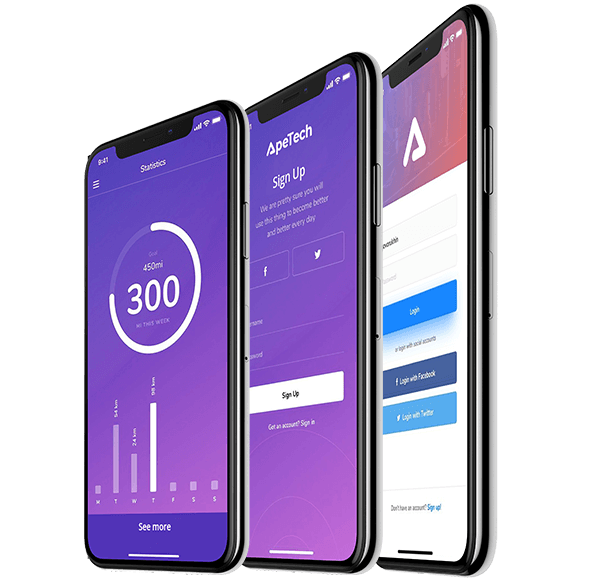
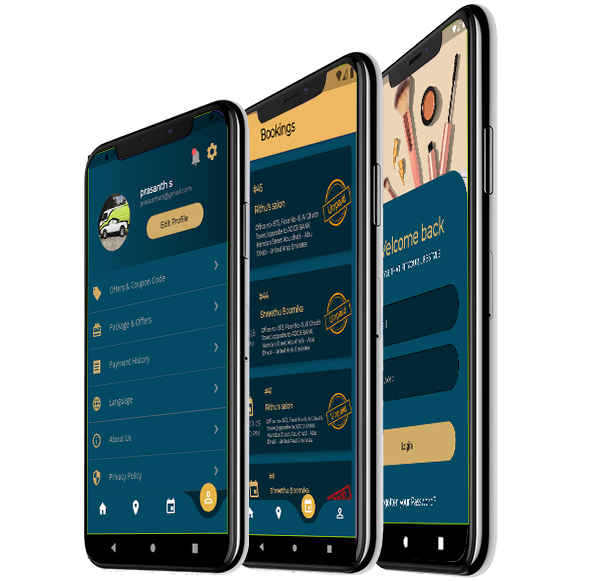
17-05-2022 v1

diff --git a/resources/views/pages/home.blade.php b/resources/views/pages/home.blade.php
@@ -126,7 +126,7 @@
                                 </span>
                             </h1>
 
-            <strong class="text-slider"></strong>
+                            <strong class="text-slider"></strong>
                                 <p>We offer a full range of services from our team of professional experienced Hair Stylists & Beauticians, using the highest quality products available. The team are fully brand trained, regularly attending refresher courses at L'Oréal  to ensure that we are providing you with as high quality treatment as we possibly can.</p>
                                 <div class="slider-action-btn">
                                     <a href="#" class="btn softo-solid-btn"><i class="fa fa-apple"></i> Appstore</a>
@@ -138,22 +138,69 @@
                     <div class="col-md-4">
                         <div class="mobile-slider-area">
                             <div class="phone">
+<style>
+@media only screen and (max-width: 1920px) {
+  .playstore-slider {
+    width:370px !important;
+    height:480px !important;
+  }
+}
+@media only screen and (max-width: 1440px) {
+  .playstore-slider {
+    width:370px !important;
+    height:470px !important;
+  }
+}
+@media only screen and (max-width: 1024px) {
+  .playstore-slider {
+    width:370px !important;
+    height:550px !important;
+  }
+}
+@media only screen and (max-width: 768px) {
+  .playstore-slider {
+    width:370px !important;
+    height:850px !important;
+  }
+}
+@media only screen and (max-width: 426px) {
+  .playstore-slider {
+    /* width:370px !important; */
+    height:520px !important;
+  }
+}
+@media only screen and (max-width: 376px) {
+  .playstore-slider {
+    /* width:370px !important; */
+    height:480px !important;
+  }
+}
+@media only screen and (max-width: 321px) {
+  .playstore-slider {
+    /* width:370px !important; */
+    height:390px !important;
+  }
+}
+</style>
                                 <img src="/website/img/iphone-x-frame.png" alt="Phone" class="img-responsive">
                                 <div class="mobile-slider owl-carousel owl-theme">
-                                    <div class="item"><img src="/website/img/top-screen-1.png" alt="Screen 1"
-                                                           class="img-responsive"></div>
-                                    <!-- <div class="item"><img src="/website/img/top-screen-5.png" alt="Screen 1"
+                                    <div class="item"><img src="/images/playstore/image-1.jpg" alt="Salon Mania" class="img-responsive playstore-slider"></div>
+                                    <div class="item"><img src="/images/playstore/image-2.jpg" alt="Salon Mania" class="img-responsive playstore-slider"></div>
+                                    <div class="item"><img src="/images/playstore/image-3.jpg" alt="Salon Mania" class="img-responsive playstore-slider"></div>
+                                    <div class="item"><img src="/images/playstore/image-4.jpg" alt="Salon Mania" class="img-responsive playstore-slider"></div>
+                                    <div class="item"><img src="/images/playstore/image-5.jpg" alt="Salon Mania" class="img-responsive playstore-slider"></div>
+                                    <!--  <div class="item"><img src="/website/img/top-screen-5.png" alt="Screen 1"
                                                            class="img-responsive"></div>
                                     <div class="item"><img src="/website/img/top-screen-2.png" alt="Screen 2"
                                                            class="img-responsive"></div>
                                     <div class="item"><img src="/website/img/top-screen-6.png" alt="Screen 2"
-                                                           class="img-responsive"></div> -->
+                                                           class="img-responsive"></div>
                                     <div class="item"><img src="/website/img/top-screen-3.png" alt="Screen 3"
                                                            class="img-responsive"></div>
                                     <div class="item"><img src="/website/img/top-screen-7.png" alt="Screen 3"
                                                            class="img-responsive"></div>
                                     <div class="item"><img src="/website/img/top-screen-8.png" alt="Screen 3"
-                                                           class="img-responsive"></div>
+                                                           class="img-responsive"></div> -->
                                 </div>
                             </div>
 
@@ -185,9 +232,7 @@
                         <div class="col-md-12">
                                 <div class="section-heading text-center">
                                 <h3>Only One App<br/>Countless Services.</h3>
-                                <p>Continually network virtual strategic theme areas vis-a-vis ubiquitous
-                                potentialities. Holisticly negotiate focused e-tailers without premium
-                                solutions. </p>
+                                <p>Salon Mania is the mobile application which is connected all the salons, spa, make artist, beauty clinic, Pets , Dermatology  in United Arab Emirates. More than 200 salons are connected in our salon mania Application. </p>
                                 </div>
                         </div>
                     </div>
@@ -197,8 +242,7 @@
                                 <div class="single-promo-content">
                                     <span class="ti-face-smile  "></span>
                                     <h6>Easy To Use</h6>
-                                    <p>Lorem ipsum dolor sit amet, eam ex probo tation tractatos. Ut vel hinc solet
-                                        tincidunt.</p>
+                                    <p>LET’S GET THINGS STARTED. TO REGISTER YOUR SALON OR BEAUTY RETAIL BUSINESS, SIMPLY SUBMIT YOUR BUSINESS AND CONTACT INFORMATION.</p>
                                 </div>
                                 <div class="line"></div>
                             </div>
@@ -208,8 +252,7 @@
                                 <div class="single-promo-content">
                                     <span class="ti-vector"></span>
                                     <h6>Awesome Design</h6>
-                                    <p>Lorem ipsum dolor sit amet, eam ex probo tation tractatos. Ut vel hinc solet
-                                        tincidunt.</p>
+                                    <p>IT’S TIME TO GROW YOUR REVENUE, CUSTOMER BASE AND EXPOSURE. YOU HAVE THE SERVICES AND PRODUCTS. WE HAVE THE TECH AND REACH</p>
                                 </div>
                                 <div class="line"></div>
                             </div>
@@ -219,8 +262,7 @@
                                 <div class="single-promo-content">
                                     <span class="ti-palette"></span>
                                     <h6>Easy To Customize</h6>
-                                    <p>Lorem ipsum dolor sit amet, eam ex probo tation tractatos. Ut vel hinc solet
-                                        tincidunt.</p>
+                                    <p>WE WORK WITH ONLY THE BEST. OUR SALON PARTNERS ARE THE TOP ECHELON IN THE WORLD’S MOST COSMOPOLITAN CITIES.YOU HAVE A WORLD-CLASS SEAL.</p>
                                 </div>
                                 <div class="line"></div>
                             </div>
@@ -230,8 +272,8 @@
                                 <div class="single-promo-content">
                                     <span class="ti-headphone-alt"></span>
                                     <h6>24/7 Support</h6>
-                                    <p>Lorem ipsum dolor sit amet, eam ex probo tation tractatos. Ut vel hinc solet
-                                        tincidunt.</p>
+                                    <p> INTEGRATED WITH MOBILE APPLICATION FOR IPHONE AND ANDROID USERS CAN BOOK THE APPOINTMENTS.
+                                        </p>
                                 </div>
                                 <div class="line"></div>
                             </div>
@@ -244,8 +286,7 @@
                                 <div class="single-promo-content">
                                     <span class="ti-face-smile  "></span>
                                     <h6>Easy To Use</h6>
-                                    <p>Lorem ipsum dolor sit amet, eam ex probo tation tractatos. Ut vel hinc solet
-                                        tincidunt.</p>
+                                    <p>Our professional will help you find the trendy look with our service in salon mania.</p>
                                 </div>
                                 <div class="line"></div>
                             </div>
@@ -255,8 +296,7 @@
                                 <div class="single-promo-content">
                                     <span class="ti-vector"></span>
                                     <h6>Awesome Design</h6>
-                                    <p>Lorem ipsum dolor sit amet, eam ex probo tation tractatos. Ut vel hinc solet
-                                        tincidunt.</p>
+                                    <p> CHOOSE ANY SERVICES AND FIX AN APPOINTMENT FROM THEIR PHONES, MAKE A PAYMENT TO YOUR SPA LOCATION.</p>
                                 </div>
                                 <div class="line"></div>
                             </div>
@@ -266,8 +306,7 @@
                                 <div class="single-promo-content">
                                     <span class="ti-palette"></span>
                                     <h6>Easy To Customize</h6>
-                                    <p>Lorem ipsum dolor sit amet, eam ex probo tation tractatos. Ut vel hinc solet
-                                        tincidunt.</p>
+                                    <p>BOOK NOW FOR THE BEST IN CLASS SERVICES! BE IT FOR A PARTY, FESTIVAL!.</p>
                                 </div>
                                 <div class="line"></div>
                             </div>
@@ -277,8 +316,7 @@
                                 <div class="single-promo-content">
                                     <span class="ti-headphone-alt"></span>
                                     <h6>24/7 Support</h6>
-                                    <p>Lorem ipsum dolor sit amet, eam ex probo tation tractatos. Ut vel hinc solet
-                                        tincidunt.</p>
+                                    <p>We have the best support 24/7 over chat system to answer all your query to serve better.</p>
                                 </div>
                                 <div class="line"></div>
                             </div>
@@ -296,9 +334,7 @@
                     <div class="col-md-12">
                         <div class="section-heading text-center">
                             <h3>Salon Mania Features</h3>
-                            <p>Continually network virtual strategic theme areas vis-a-vis ubiquitous
-                                potentialities. Holisticly negotiate focused e-tailers without premium
-                                solutions. </p>
+                            <p>We found some best registered Barbours in United Arab Emirates. Who can provide best service in salons & Spa. </p>
                         </div>
                     </div>
                 </div>
@@ -313,7 +349,7 @@
                             </div>
                             <div class="feature-content">
                                 <h5>Responsive web design</h5>
-                                <p class="mb-0">Modular and interchangable componente between layouts and even demos.</p>
+                                <p class="mb-0">Improved web design to all the users to have right selection.</p>
                             </div>
                         </div>
                         <!--feature single end-->
@@ -326,7 +362,7 @@
                             </div>
                             <div class="feature-content">
                                 <h5>Loaded with features</h5>
-                                <p class="mb-0">Modular and interchangable componente between layouts and even demos.</p>
+                                <p class="mb-0">One Hub for all your needs buy products and services at one go.</p>
                             </div>
                         </div>
                         <!--feature single end-->
@@ -339,7 +375,7 @@
                             </div>
                             <div class="feature-content">
                                 <h5>Friendly online support</h5>
-                                <p class="mb-0">Modular and interchangable componente between layouts and even demos.</p>
+                                <p class="mb-0"> We are connected with you 24/7 to asssit you better in all needs.</p>
                             </div>
                         </div>
                         <!--feature single end-->
@@ -359,7 +395,7 @@
                             </div>
                             <div class="feature-content">
                                 <h5>Free updates forever</h5>
-                                <p class="mb-0">Modular and interchangable componente between layouts and even demos.</p>
+                                <p class="mb-0">Get updates on latestet features on the go.</p>
                             </div>
                         </div>
                         <!--feature single end-->
@@ -372,7 +408,7 @@
                             </div>
                             <div class="feature-content">
                                 <h5>Infinite colors</h5>
-                                <p class="mb-0">Modular and interchangable componente between layouts and even demos.</p>
+                                <p class="mb-0">You can find all the shops required at single hub.</p>
                             </div>
                         </div>
                         <!--feature single end-->
@@ -385,7 +421,7 @@
                             </div>
                             <div class="feature-content">
                                 <h5>Friendly online support</h5>
-                                <p class="mb-0">Modular and interchangable componente between layouts and even demos.</p>
+                                <p class="mb-0">Using the app is easy to navigate on your needs.</p>
                             </div>
                         </div>
                         <!--feature single end-->
@@ -426,8 +462,8 @@
                         <div class="col-md-12">
                             <div class="section-heading text-center">
                                 <h3>10k+ Experts Trust Us</h3>
-                                <p>Streamlining different processes and workflows by using user access control Onebook
-                                    prompts efficiency and productivity levels of an organization, and reduces operating
+                                <p>Streamlining different processes and workflows by using user access control admin
+                                    prompts efficiency and productivity levels of an each spa, salon, petcare and lot more, and reduces operating
                                     costs.</p>
                             </div>
                         </div>
@@ -475,16 +511,13 @@
                                     <div class="single-testimonial-item">
                                         <span class="blockquote-icon"><i class="fa fa-quote-left"></i></span>
                                         <div class="testimonial-content">
-                                            <p>Professionally grow backward-compatible data without tactical alignments.
-                                                Completely whiteboard cooperative schemas rather than cross-platform
-                                                intellectual capital. Quickly benchmark wireless relationships via
-                                                client-centered models.</p>
+                                            <p>Best app to use for all spa / petcare and beatuty product needs, happy to use this app.</p>
                                         </div>
                                         <div class="testimonial-author">
                                             <img src="/website/img/testimonial-4.png" alt="">
                                             <div class="testimonial-author-info">
-                                                <h6>Beatrice Evans</h6>
-                                                <span>Digital Marketer</span>
+                                                <h6>Mohamed al Khalid Shamsi</h6>
+                                                <span> App user</span>
                                             </div>
                                         </div>
                                     </div>
@@ -493,15 +526,12 @@
                                     <div class="single-testimonial-item">
                                         <span class="blockquote-icon"><i class="fa fa-quote-left"></i></span>
                                         <div class="testimonial-content">
-                                            <p>Professionally grow backward-compatible data without tactical alignments.
-                                                Completely whiteboard cooperative schemas rather than cross-platform
-                                                intellectual capital. Quickly benchmark wireless relationships via
-                                                client-centered models.</p>
+                                            <p>Clean Interface and easy access with online payment loved using this app.</p>
                                         </div>
                                         <div class="testimonial-author">
                                             <img src="/website/img/testimonial-4.png" alt="">
                                             <div class="testimonial-author-info">
-                                                <h6>Beatrice Evans</h6>
+                                                <h6>Lao min Ju shu</h6>
                                                 <span>Digital Marketer</span>
                                             </div>
                                         </div>
@@ -538,13 +568,7 @@
                                     </div>
                                     <div id="collapseOne" class="panel-collapse collapse">
                                         <div class="panel-body">
-                                            <p>Lorem ipsum dolor sit amet, consectetur adipiscing elit. Praesent nisl
-                                                lorem,
-                                                dictum id pellentesque at, vestibulum ut arcu. Curabitur erat libero,
-                                                egestas eu
-                                                tincidunt ac, rutrum ac justo. Vivamus condimentum laoreet lectus,
-                                                blandit
-                                                posuere tortor aliquam vitae. Curabitur molestie eros. </p>
+                                            <p>New Design concept for easy buyer journey. </p>
                                         </div>
                                     </div>
                                 </div>
@@ -560,13 +584,7 @@
                                     </div>
                                     <div id="collapseTwo" class="panel-collapse collapse">
                                         <div class="panel-body">
-                                            <p>Lorem ipsum dolor sit amet, consectetur adipiscing elit. Praesent nisl
-                                                lorem,
-                                                dictum id pellentesque at, vestibulum ut arcu. Curabitur erat libero,
-                                                egestas eu
-                                                tincidunt ac, rutrum ac justo. Vivamus condimentum laoreet lectus,
-                                                blandit
-                                                posuere tortor aliquam vitae. Curabitur molestie eros. </p>
+                                            <p>New users can easly navigate through the app for new orders and customized profile for each users. </p>
                                         </div>
                                     </div>
                                 </div>
@@ -582,13 +600,7 @@
                                     </div>
                                     <div id="collapseThree" class="panel-collapse collapse">
                                         <div class="panel-body">
-                                            <p>Lorem ipsum dolor sit amet, consectetur adipiscing elit. Praesent nisl
-                                                lorem,
-                                                dictum id pellentesque at, vestibulum ut arcu. Curabitur erat libero,
-                                                egestas eu
-                                                tincidunt ac, rutrum ac justo. Vivamus condimentum laoreet lectus,
-                                                blandit
-                                                posuere tortor aliquam vitae. Curabitur molestie eros. </p>
+                                            <p> works fine with web, smartphones, the shop owners can use mobile or web for all orders. </p>
                                         </div>
                                     </div>
                                 </div>
@@ -604,13 +616,7 @@
                                     </div>
                                     <div id="collapseFour" class="panel-collapse collapse">
                                         <div class="panel-body">
-                                            <p>Lorem ipsum dolor sit amet, consectetur adipiscing elit. Praesent nisl
-                                                lorem,
-                                                dictum id pellentesque at, vestibulum ut arcu. Curabitur erat libero,
-                                                egestas eu
-                                                tincidunt ac, rutrum ac justo. Vivamus condimentum laoreet lectus,
-                                                blandit
-                                                posuere tortor aliquam vitae. Curabitur molestie eros. </p>
+                                            <p>Best UI views and lot more updates in every 3 months ot 6 months. </p>
                                         </div>
                                     </div>
                                 </div>
@@ -710,15 +716,14 @@
                             <div class="section-heading">
                                 <h3>Contact with us</h3>
                                 <p>It's very easy to get in touch with us. Just use the contact form or pay us a
-                                    visit for a coffee at the office. Dynamically innovate competitive technology after an expanded array of leadership.</p>
+                                    visit for a coffee at the office after an expanded array of leadership.</p>
                             </div>
                             <div class="footer-address">
                                 <h6>Head Office</h6>
-                                <p>121 King St, Melbourne VIC 3000, Australia</p>
+                                <p> Abu dhabi </p>
                                 <ul>
-                                    <li><i class="fa fa-phone"></i> <span>Phone: +61 2 8376 6284</span></li>
-                                    <li><i class="fa fa-envelope-o"></i> <span>Email : <a
-                                            href="mailto:hello@yourdomain.com">hello@yourdomain.com</a></span>
+                                    <li><i class="fa fa-envelope-o"></i> <span>Email :info@salonmania.ae <a
+                                            href="mailto:hello@yourdomain.com">info@yourdomain.com</a></span>
                                     </li>
                                 </ul>
                             </div>
@@ -757,8 +762,7 @@
                                 <div class="row">
                                     <div class="col-xs-12">
                                         <div class="form-group">
-                                                    <textarea name="message" id="message" class="form-control" rows="7"
-                                                              cols="25" placeholder="Message"></textarea>
+                                            <textarea name="message" id="message" class="form-control" rows="7" cols="25" placeholder="Message"></textarea>
                                         </div>
                                     </div>
                                 </div>
@@ -844,3 +848,4 @@
 <script src="/website/js/scripts.js"></script>
 </body>
 </html>
+
